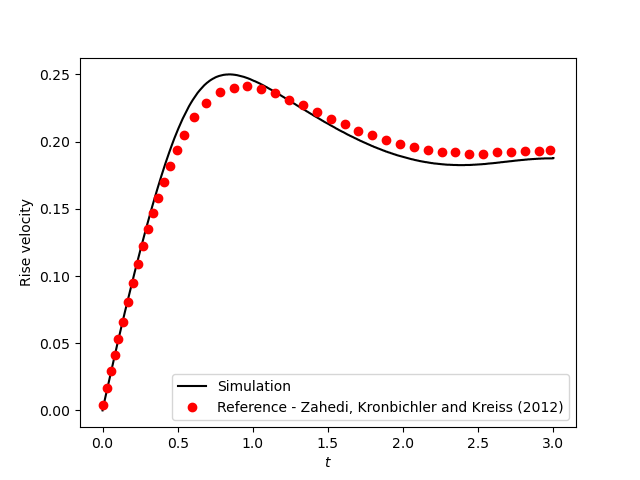
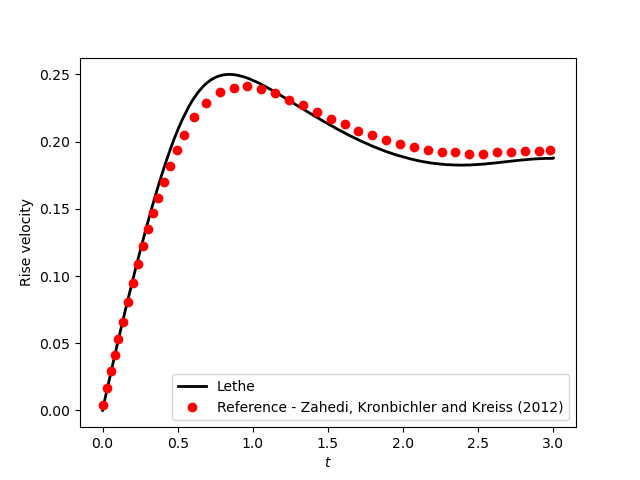
Update images and indent

diff --git a/source/solvers/vof.cc b/source/solvers/vof.cc
@@ -100,8 +100,8 @@ template <int dim>
 void
 VolumeOfFluid<dim>::assemble_local_system_matrix(
   const typename DoFHandler<dim>::active_cell_iterator &cell,
-  VOFScratchData<dim>                                  &scratch_data,
-  StabilizedMethodsCopyData                            &copy_data)
+  VOFScratchData<dim> &                                 scratch_data,
+  StabilizedMethodsCopyData &                           copy_data)
 {
   copy_data.cell_is_local = cell->is_locally_owned();
   if (!cell->is_locally_owned())
@@ -191,8 +191,8 @@ template <int dim>
 void
 VolumeOfFluid<dim>::assemble_local_system_rhs(
   const typename DoFHandler<dim>::active_cell_iterator &cell,
-  VOFScratchData<dim>                                  &scratch_data,
-  StabilizedMethodsCopyData                            &copy_data)
+  VOFScratchData<dim> &                                 scratch_data,
+  StabilizedMethodsCopyData &                           copy_data)
 {
   copy_data.cell_is_local = cell->is_locally_owned();
   if (!cell->is_locally_owned())
@@ -342,7 +342,7 @@ template <typename VectorType>
 std::pair<Tensor<1, dim>, Tensor<1, dim>>
 VolumeOfFluid<dim>::calculate_barycenter(
   const TrilinosWrappers::MPI::Vector &solution,
-  const VectorType                    &solution_fd)
+  const VectorType &                   solution_fd)
 {
   const MPI_Comm mpi_communicator = this->triangulation->get_communicator();
 
@@ -436,13 +436,13 @@ VolumeOfFluid<3>::calculate_barycenter<TrilinosWrappers::MPI::Vector>(
 
 template std::pair<Tensor<1, 2>, Tensor<1, 2>>
 VolumeOfFluid<2>::calculate_barycenter<TrilinosWrappers::MPI::BlockVector>(
-  const TrilinosWrappers::MPI::Vector      &solution,
+  const TrilinosWrappers::MPI::Vector &     solution,
   const TrilinosWrappers::MPI::BlockVector &current_solution_fd);
 
 
 template std::pair<Tensor<1, 3>, Tensor<1, 3>>
 VolumeOfFluid<3>::calculate_barycenter<TrilinosWrappers::MPI::BlockVector>(
-  const TrilinosWrappers::MPI::Vector      &solution,
+  const TrilinosWrappers::MPI::Vector &     solution,
   const TrilinosWrappers::MPI::BlockVector &current_solution_fd);
 
 
@@ -488,14 +488,16 @@ VolumeOfFluid<dim>::calculate_volume_and_mass(
             {
               switch (monitored_fluid)
                 {
-                    case Parameters::FluidIndicator::fluid0: {
+                  case Parameters::FluidIndicator::fluid0:
+                    {
                       this->volume_monitored +=
                         fe_values_vof.JxW(q) * (1 - phase_values[q]);
                       this->mass_monitored +=
                         this->volume_monitored * density_0[q];
                       break;
                     }
-                    case Parameters::FluidIndicator::fluid1: {
+                  case Parameters::FluidIndicator::fluid1:
+                    {
                       this->volume_monitored +=
                         fe_values_vof.JxW(q) * phase_values[q];
                       this->mass_monitored +=
@@ -522,7 +524,7 @@ template <typename VectorType>
 double
 VolumeOfFluid<dim>::find_monitored_fluid_avg_pressure(
   const TrilinosWrappers::MPI::Vector &solution,
-  const VectorType                    &current_solution_fd,
+  const VectorType &                   current_solution_fd,
   const Parameters::FluidIndicator     monitored_fluid)
 {
   QGauss<dim>    quadrature_formula(this->cell_quadrature->size());
@@ -607,14 +609,14 @@ VolumeOfFluid<3>::find_monitored_fluid_avg_pressure<
 template double
 VolumeOfFluid<2>::find_monitored_fluid_avg_pressure<
   TrilinosWrappers::MPI::BlockVector>(
-  const TrilinosWrappers::MPI::Vector      &solution,
+  const TrilinosWrappers::MPI::Vector &     solution,
   const TrilinosWrappers::MPI::BlockVector &current_solution_fd,
   const Parameters::FluidIndicator          monitored_fluid);
 
 template double
 VolumeOfFluid<3>::find_monitored_fluid_avg_pressure<
   TrilinosWrappers::MPI::BlockVector>(
-  const TrilinosWrappers::MPI::Vector      &solution,
+  const TrilinosWrappers::MPI::Vector &     solution,
   const TrilinosWrappers::MPI::BlockVector &current_solution_fd,
   const Parameters::FluidIndicator          monitored_fluid);
 
@@ -1017,8 +1019,9 @@ VolumeOfFluid<dim>::find_sharpening_threshold()
           st_min             = st_avg;
           mass_deviation_min = mass_deviation_avg;
         }
-  } while (std::abs(mass_deviation_avg) > mass_deviation_tol &&
-           nb_search_ite < max_iterations);
+    }
+  while (std::abs(mass_deviation_avg) > mass_deviation_tol &&
+         nb_search_ite < max_iterations);
 
   // Take minimum deviation in between the two endpoints of the last
   // interval searched, if out of the do-while loop because max_iterations is
@@ -2736,9 +2739,9 @@ VolumeOfFluid<3>::apply_peeling_wetting<TrilinosWrappers::MPI::BlockVector>(
 template <int dim>
 void
 VolumeOfFluid<dim>::change_cell_phase(
-  const PhaseChange                          &type,
-  const double                               &new_phase,
-  TrilinosWrappers::MPI::Vector              &solution_pw,
+  const PhaseChange &                         type,
+  const double &                              new_phase,
+  TrilinosWrappers::MPI::Vector &             solution_pw,
   const std::vector<types::global_dof_index> &dof_indices_vof)
 {
   if (type == PhaseChange::wetting)

diff --git a/include/solvers/vof.h b/include/solvers/vof.h
@@ -54,7 +54,7 @@ public:
    * @brief VOF - Base constructor.
    */
   VolumeOfFluid<dim>(
-    MultiphysicsInterface<dim>      *multiphysics_interface,
+    MultiphysicsInterface<dim> *     multiphysics_interface,
     const SimulationParameters<dim> &p_simulation_parameters,
     std::shared_ptr<parallel::DistributedTriangulationBase<dim>>
                                        p_triangulation,
@@ -216,7 +216,7 @@ public:
   double
   find_monitored_fluid_avg_pressure(
     const TrilinosWrappers::MPI::Vector &solution,
-    const VectorType                    &current_solution_fd,
+    const VectorType &                   current_solution_fd,
     const Parameters::FluidIndicator     monitored_fluid);
 
   /**
@@ -420,8 +420,8 @@ private:
   virtual void
   assemble_local_system_matrix(
     const typename DoFHandler<dim>::active_cell_iterator &cell,
-    VOFScratchData<dim>                                  &scratch_data,
-    StabilizedMethodsCopyData                            &copy_data);
+    VOFScratchData<dim> &                                 scratch_data,
+    StabilizedMethodsCopyData &                           copy_data);
 
   /**
    * @brief Assemble the local rhs for a given cell
@@ -439,8 +439,8 @@ private:
   virtual void
   assemble_local_system_rhs(
     const typename DoFHandler<dim>::active_cell_iterator &cell,
-    VOFScratchData<dim>                                  &scratch_data,
-    StabilizedMethodsCopyData                            &copy_data);
+    VOFScratchData<dim> &                                 scratch_data,
+    StabilizedMethodsCopyData &                           copy_data);
 
   /**
    * @brief sets up the vector of assembler functions
@@ -536,7 +536,7 @@ private:
   template <typename VectorType>
   void
   apply_peeling_wetting(const unsigned int i_bc,
-                        const VectorType  &current_solution_fd);
+                        const VectorType & current_solution_fd);
 
   /**
    * @brief Change cell phase, small method called to avoid code repetition and reduce sloppy
@@ -552,9 +552,9 @@ private:
    */
   void
   change_cell_phase(
-    const PhaseChange                          &type,
-    const double                               &new_phase,
-    TrilinosWrappers::MPI::Vector              &solution_pw,
+    const PhaseChange &                         type,
+    const double &                              new_phase,
+    TrilinosWrappers::MPI::Vector &             solution_pw,
     const std::vector<types::global_dof_index> &dof_indices_vof);
 
   /**
@@ -691,7 +691,7 @@ private:
 
   TrilinosWrappers::MPI::Vector nodal_phase_fraction_owned;
 
-  MultiphysicsInterface<dim>      *multiphysics;
+  MultiphysicsInterface<dim> *     multiphysics;
   const SimulationParameters<dim> &simulation_parameters;
 
   // Core elements for the VOF simulation

diff --git a/source/core/parameters.cc b/source/core/parameters.cc
@@ -265,7 +265,7 @@ namespace Parameters
   }
 
   void
-  PowerLawParameters::parse_parameters(ParameterHandler    &prm,
+  PowerLawParameters::parse_parameters(ParameterHandler &   prm,
                                        const Dimensionality dimensions)
   {
     prm.enter_subsection("power-law");
@@ -305,7 +305,7 @@ namespace Parameters
   }
 
   void
-  CarreauParameters::parse_parameters(ParameterHandler    &prm,
+  CarreauParameters::parse_parameters(ParameterHandler &   prm,
                                       const Dimensionality dimensions)
   {
     prm.enter_subsection("carreau");
@@ -341,7 +341,7 @@ namespace Parameters
   }
 
   void
-  NonNewtonian::parse_parameters(ParameterHandler    &prm,
+  NonNewtonian::parse_parameters(ParameterHandler &   prm,
                                  const Dimensionality dimensions)
   {
     prm.enter_subsection("non newtonian");
@@ -392,7 +392,7 @@ namespace Parameters
   }
 
   void
-  PhaseChange::parse_parameters(ParameterHandler    &prm,
+  PhaseChange::parse_parameters(ParameterHandler &   prm,
                                 const Dimensionality dimensions)
   {
     prm.enter_subsection("phase change");
@@ -527,7 +527,7 @@ namespace Parameters
   }
 
   void
-  PhysicalProperties::parse_parameters(ParameterHandler    &prm,
+  PhysicalProperties::parse_parameters(ParameterHandler &   prm,
                                        const Dimensionality dimensions)
   {
     prm.enter_subsection("physical properties");
@@ -638,7 +638,7 @@ namespace Parameters
   }
 
   void
-  Fluid::parse_parameters(ParameterHandler                &prm,
+  Fluid::parse_parameters(ParameterHandler &               prm,
                           const unsigned int               id,
                           const Parameters::Dimensionality dimensions)
   {

diff --git a/examples/multiphysics/rising-bubble/rising-bubble.py b/examples/multiphysics/rising-bubble/rising-bubble.py
@@ -15,9 +15,6 @@ import matplotlib.pyplot as plt
 filename = sys.argv[1]
 t,x,y,vx,vy=np.loadtxt(filename,skiprows=1,unpack=True)
 
-
-
-
 #Data from Zahedi, Kronbichler and Kreiss (2012)
 x_ref = [0.047, 0.139, 0.232 ,0.324 ,0.416 ,0.508 ,0.601 ,0.693 ,0.785 ,0.878 ,0.97 ,1.062 ,1.154 ,1.247 ,1.339 ,1.431 ,1.524 ,1.616 ,1.708 ,1.8 ,1.893 ,1.985 ,2.077 ,2.17 ,2.262 ,2.354 ,2.446 ,2.539 ,2.631 ,2.723 ,2.816 ,2.908 ,2.979]
 y_ref = [0.501 ,0.505 ,0.513 ,0.525 ,0.54 ,0.557 ,0.576 ,0.597 ,0.618 ,0.641 ,0.663 ,0.685 ,0.707 ,0.729 ,0.75 ,0.77 ,0.791 ,0.811 ,0.83 ,0.849 ,0.868 ,0.886 ,0.904 ,0.922 ,0.94 ,0.958 ,0.976 ,0.993 ,1.011 ,1.029 ,1.047 ,1.064 ,1.078]
@@ -26,7 +23,7 @@ y_vel = [0.004 ,0.017 ,0.029 ,0.041 ,0.053 ,0.066 ,0.081 ,0.095 ,0.109 ,0.122 ,0
 
 fig0 = plt.figure()
 ax0 = fig0.add_subplot(111)
-ax0.plot(t, y, '-k', label="Simulation")
+ax0.plot(t, y, '-k', lw=2, label="Lethe")
 ax0.plot(x_ref, y_ref, 'ro',label="Reference - Zahedi, Kronbichler and Kreiss (2012)")
 ax0.set_ylabel(r'Bubble center height')
 ax0.set_xlabel(r'$t$')
@@ -36,7 +33,7 @@ plt.show()
 
 fig1 = plt.figure()
 ax1 = fig1.add_subplot(111)
-ax1.plot(t, vy , '-k', label="Simulation")
+ax1.plot(t, vy , '-k', lw=2, label="Lethe")
 ax1.plot(x_vel, y_vel, 'ro',label="Reference - Zahedi, Kronbichler and Kreiss (2012)")
 ax1.set_ylabel(r'Rise velocity')
 ax1.set_xlabel(r'$t$')

diff --git a/include/core/parameters.h b/include/core/parameters.h
@@ -292,7 +292,7 @@ namespace Parameters
     void
     declare_parameters(ParameterHandler &prm, unsigned int id);
     void
-    parse_parameters(ParameterHandler    &prm,
+    parse_parameters(ParameterHandler &   prm,
                      const unsigned int   id,
                      const Dimensionality dimensions);
 
@@ -374,7 +374,7 @@ namespace Parameters
     void
     declare_parameters(ParameterHandler &prm);
     void
-    parse_parameters(ParameterHandler    &prm,
+    parse_parameters(ParameterHandler &   prm,
                      const Dimensionality dimensions = Dimensionality());
   };
 
